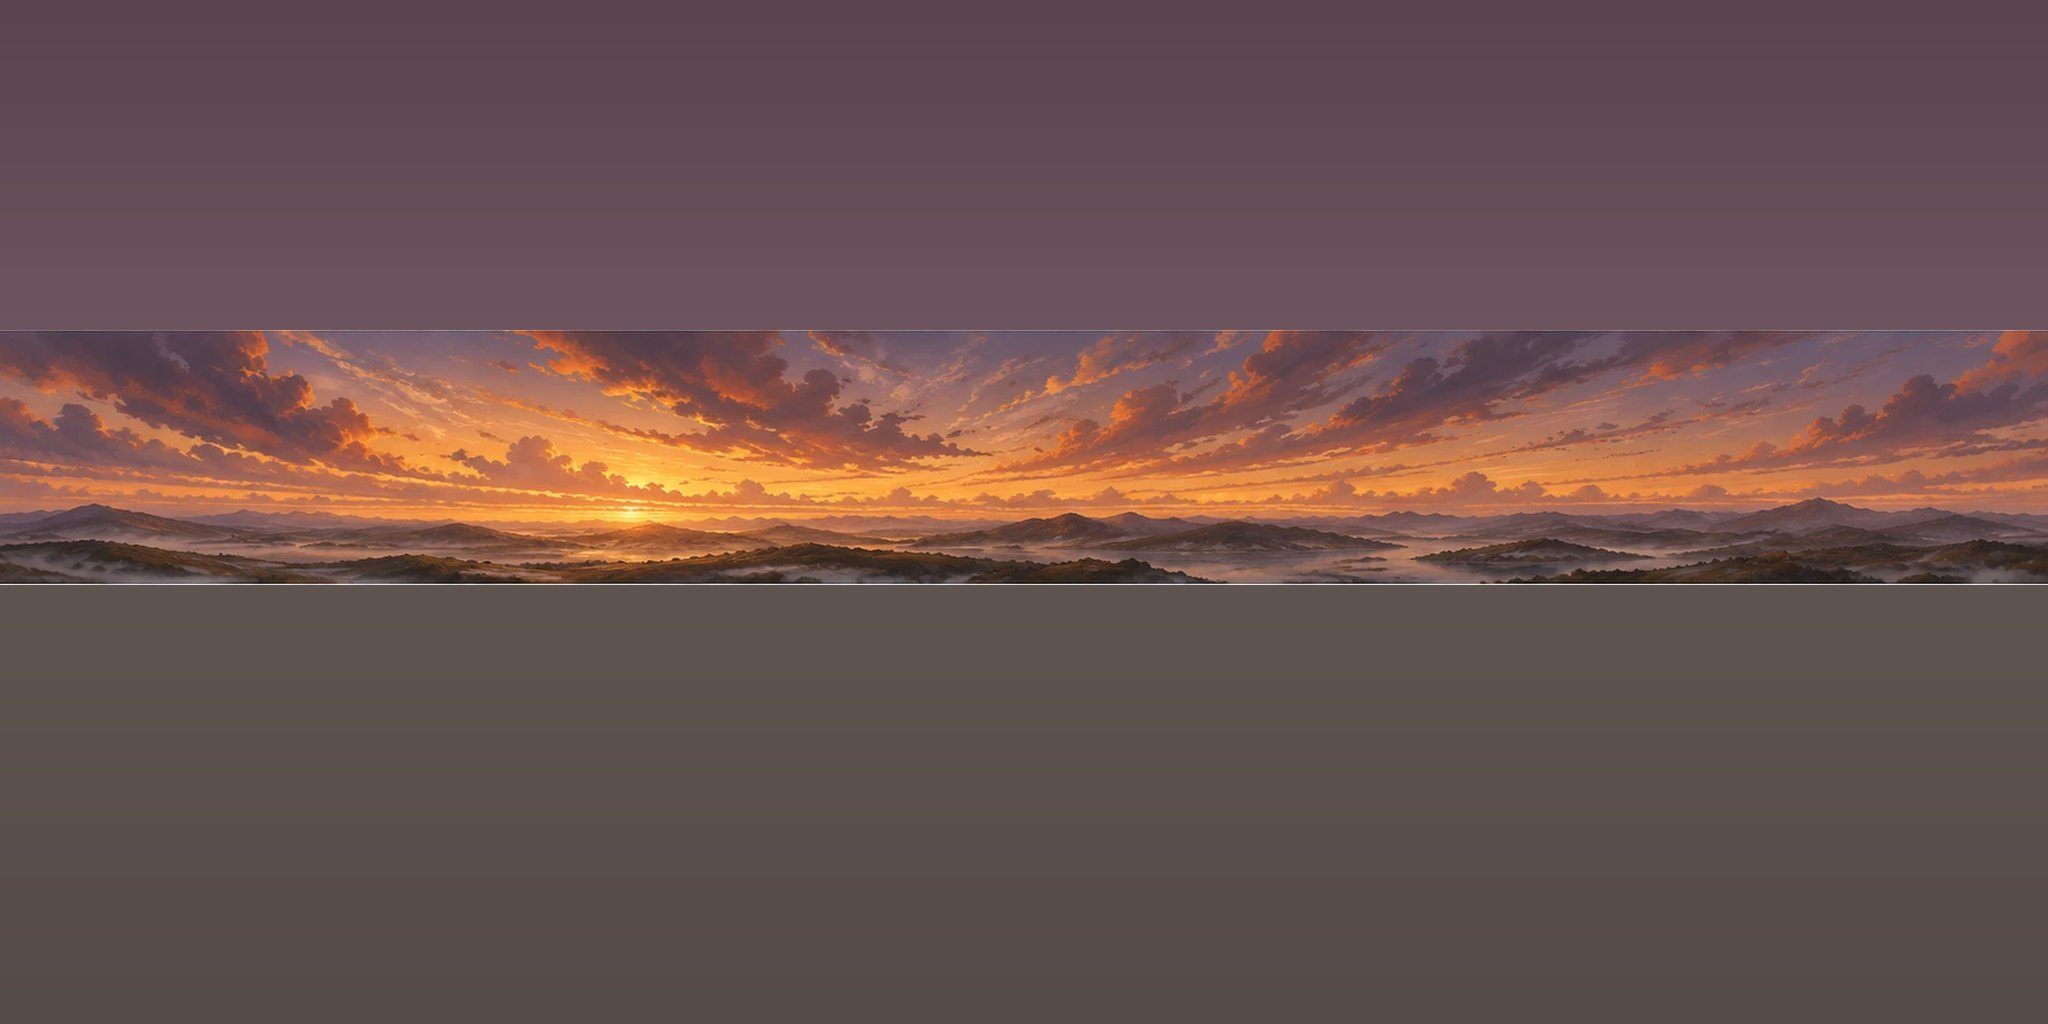
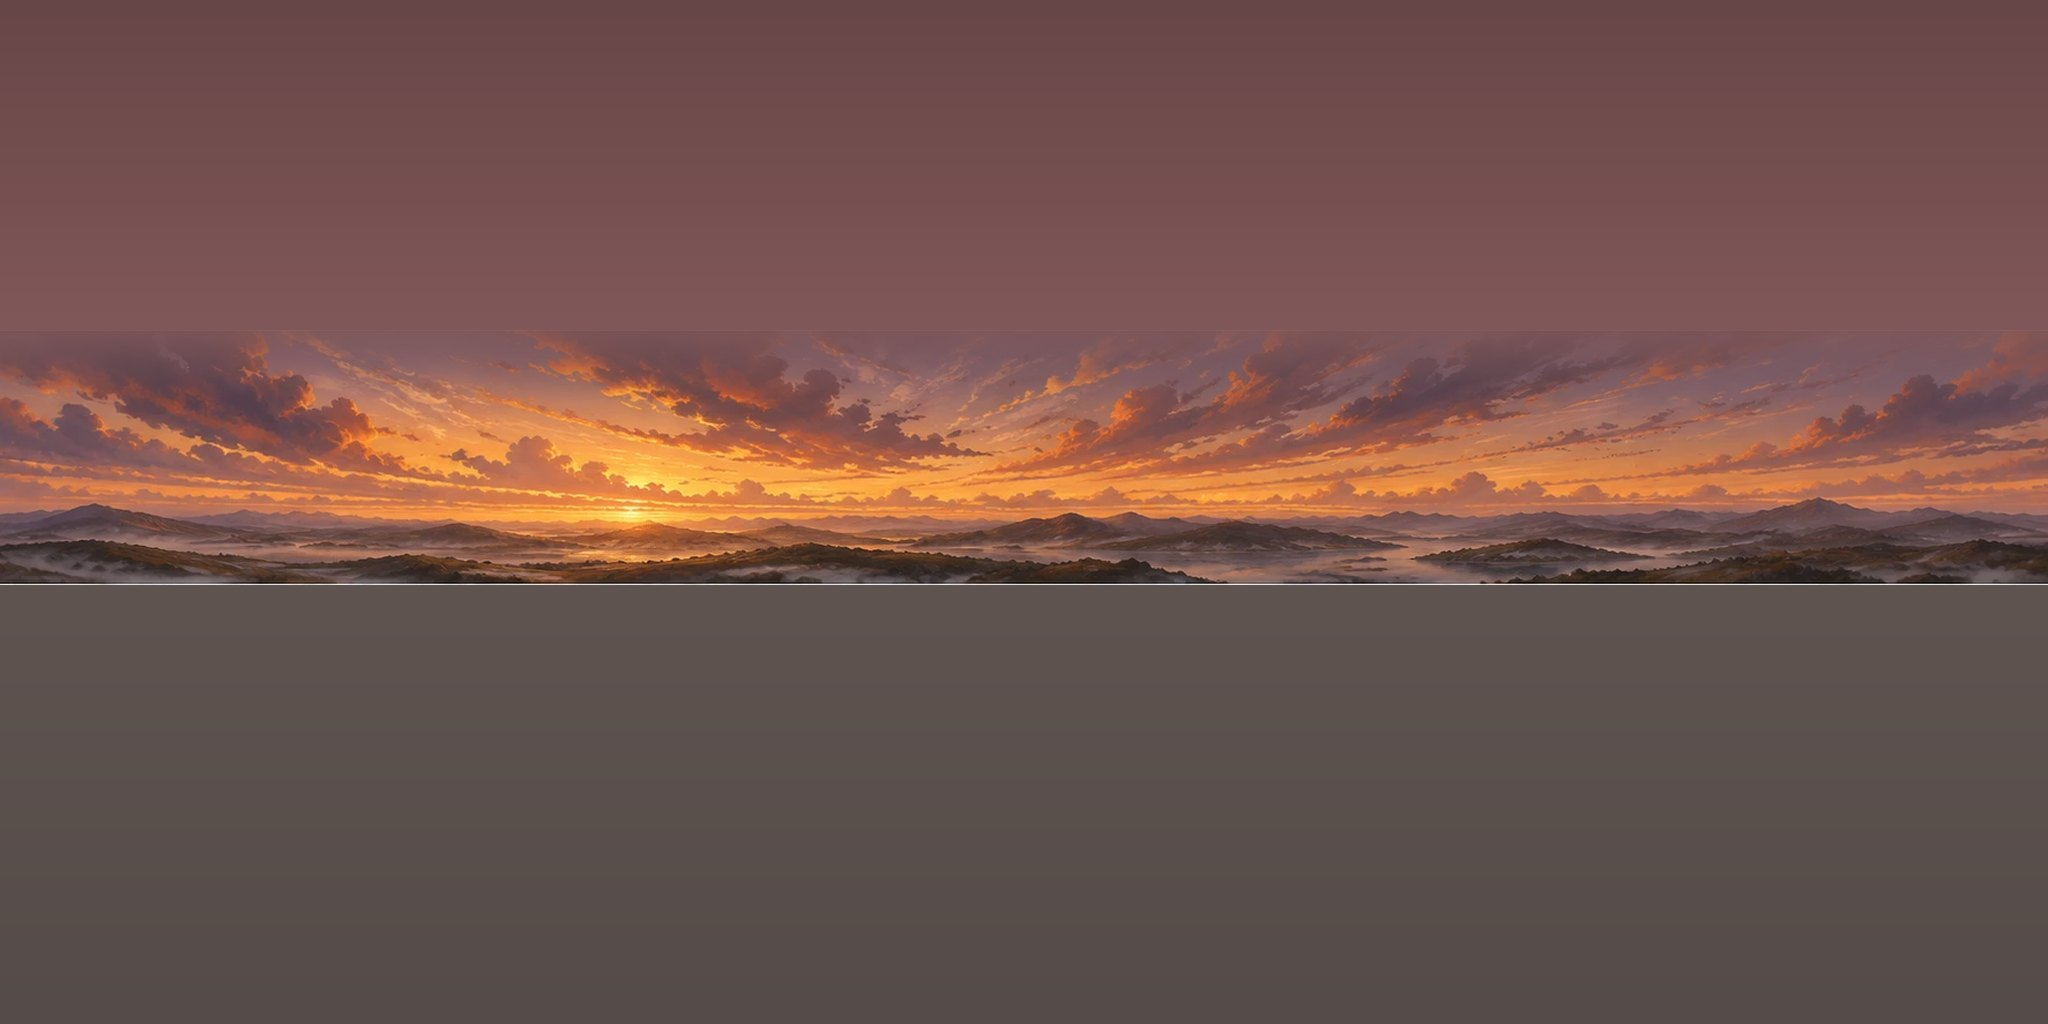
Keep the flyover tight over the green; fix the washed-white sky
The Mhórrígan ranged out to the far treeline (trees ring the platform at
r30+, well past the ±16 green), which carried the camera off the edge and
bared the floating slab. She now perches low on the grass at well-inset
corners (pad 0.3·N) and never leaves the green — her flight radius caps
around the middle of the platform — with a tighter 52° eye during the
flyover (the ground stroll keeps its wide 74°) so the edges stay out of
frame. Lower overall, too.

Also fixed the sky washing out white at altitude: the panorama composites
fabricated the sky above the painted band by sampling the band's very top
row, which is the bright hazy horizon — so the upper sky faded to near
white. They now sample true sky-blue from a clear-sky strip and feather
the seam, so the sky reads blue overhead from every angle.

Claude-Session: https://claude.ai/code/session_01WKhRt8ZZmze2AhDKaekxbQ

diff --git a/src/main.js b/src/main.js
@@ -107,8 +107,10 @@ const walk = {
   // match the axis the iso art is drawn for, and the buildings hold their iso
   // facing during the flyover (see billboardBuildings), so nothing spins.
   _ravRoute() {
-    const m = game.map, N = m.size, pad = Math.max(5, Math.round(N * 0.2));
-    const a = pad, b = N - 1 - pad, c = N >> 1, LO = 2.0, HI = 12;
+    // Keep the corners well inside the ráth — a wider pad holds the flight over the
+    // green so she never ranges out to the platform's edge and shows the void beyond.
+    const m = game.map, N = m.size, pad = Math.max(7, Math.round(N * 0.3));
+    const a = pad, b = N - 1 - pad, c = N >> 1, LO = 2.0, HI = 11;
     // perch legs sit in the corners (she sets down there); transit legs cross the
     // middle high. LO is only the approach floor — the true perch height is chosen
     // on landing (a treetop if one is near, else a low skim).
@@ -124,17 +126,15 @@ const walk = {
       V(c, c, HI),        // middle, then round again
     ];
   },
-  // The nearest treetop to a corner, if one is close enough to alight on; else a low
-  // skim just above the ground there.
-  _perchFor(c) {
-    let best = null, bd = Infinity;
-    for (const t of (this._treePts || [])) { const d = (t.x - c.x) ** 2 + (t.z - c.z) ** 2; if (d < bd) { bd = d; best = t; } }
-    if (best && bd < 24 * 24) return new THREE.Vector3(best.x, Math.max(1.4, best.top + 0.4), best.z);
-    return new THREE.Vector3(c.x, 1.6, c.z);
-  },
+  // Where she sets down in a corner: a low skim over the green at the inset corner,
+  // looking in. The scenery trees all ring OUTSIDE the platform, so alighting on one
+  // would carry the camera off the edge and expose the void — instead she settles low
+  // on the grass with the treeline framing the distance.
+  _perchFor(c) { return new THREE.Vector3(c.x, 1.7, c.z); },
   _updateRaven(dt) {
+    if (walkCam.fov !== 52) { walkCam.fov = 52; walkCam.updateProjectionMatrix(); } // a tighter eye on the flyover keeps the platform edges out of frame
     if (this._first) {
-      this._buildScenery(); // the treetops she may perch on
+      this._buildScenery(); // the ring of trees framing the clearing
       if (!this._ravWps) this._ravWps = this._ravRoute();
       this._ravI = 1; this._perchT = 0; const s = this._ravWps[0].v;
       this._rav.copy(s); this._ravT = 0; this._cl.set(s.x, 1, s.z);
@@ -317,6 +317,7 @@ const walk = {
   },
   update(dt) {
     if (this.follow && this.follow.raven) { this._updateRaven(dt); return; } // the raven flies, no ground subject
+    if (walkCam.fov !== 74) { walkCam.fov = 74; walkCam.updateProjectionMatrix(); } // ground stroll: the wide, immersive eye
     // Follow one subject for their whole path. When they finish their errand (or
     // leave), send out Deaglán/Somhairlín/Fionn to roam the roads and follow them on —
     // a tireless subject so the stroll runs like a screensaver.
